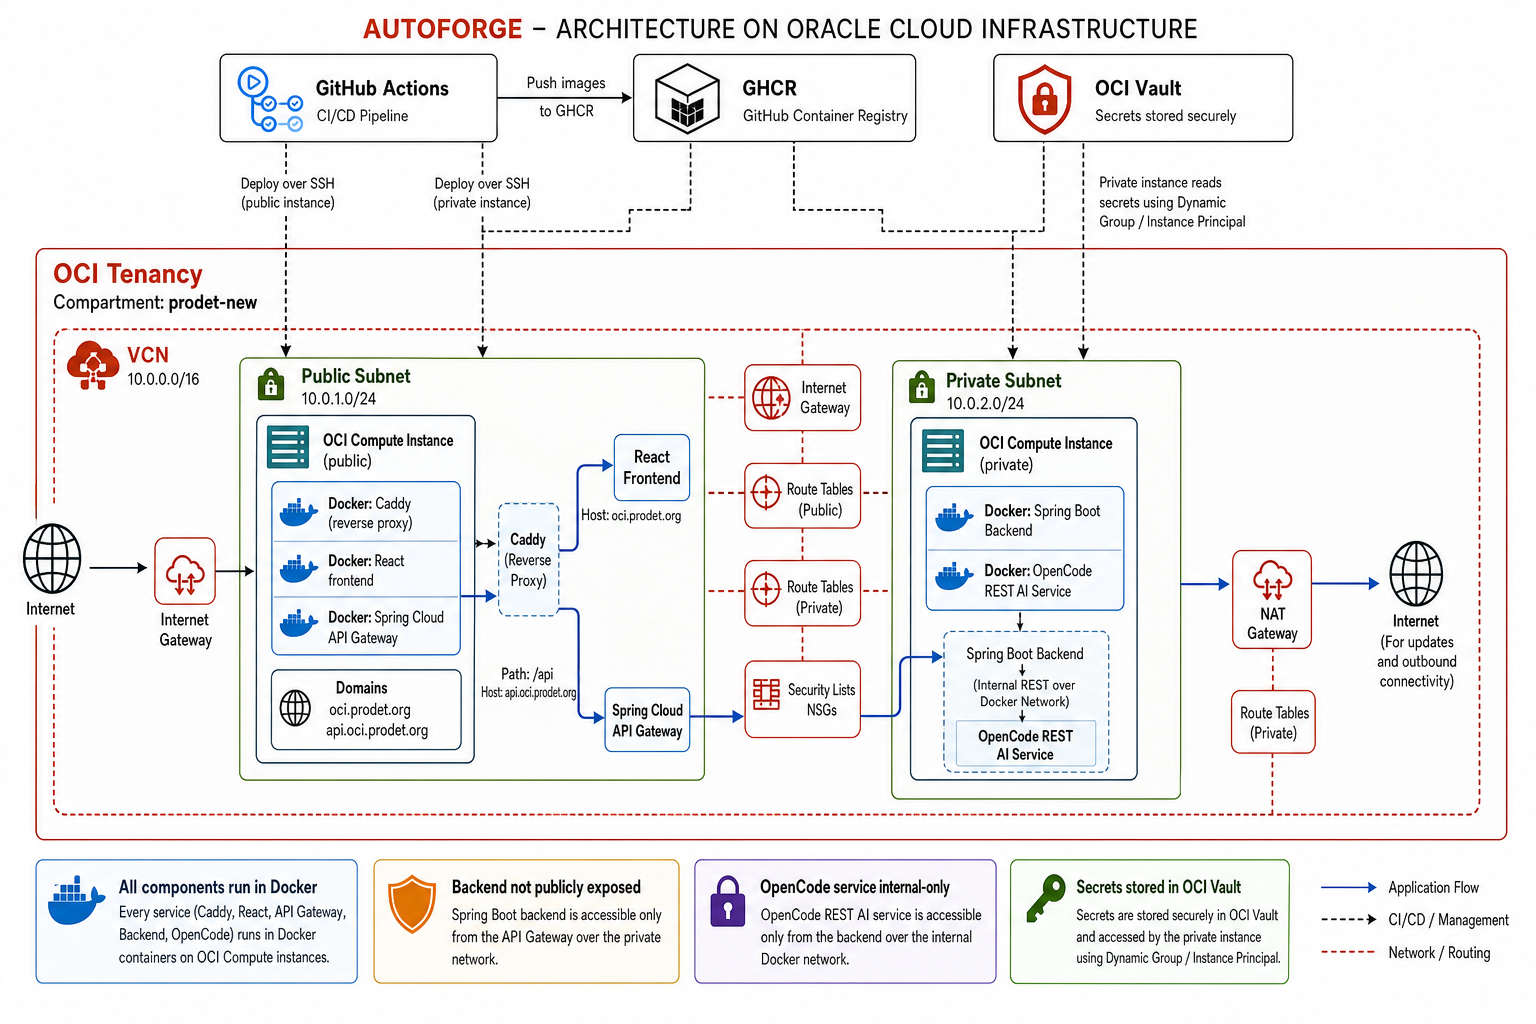
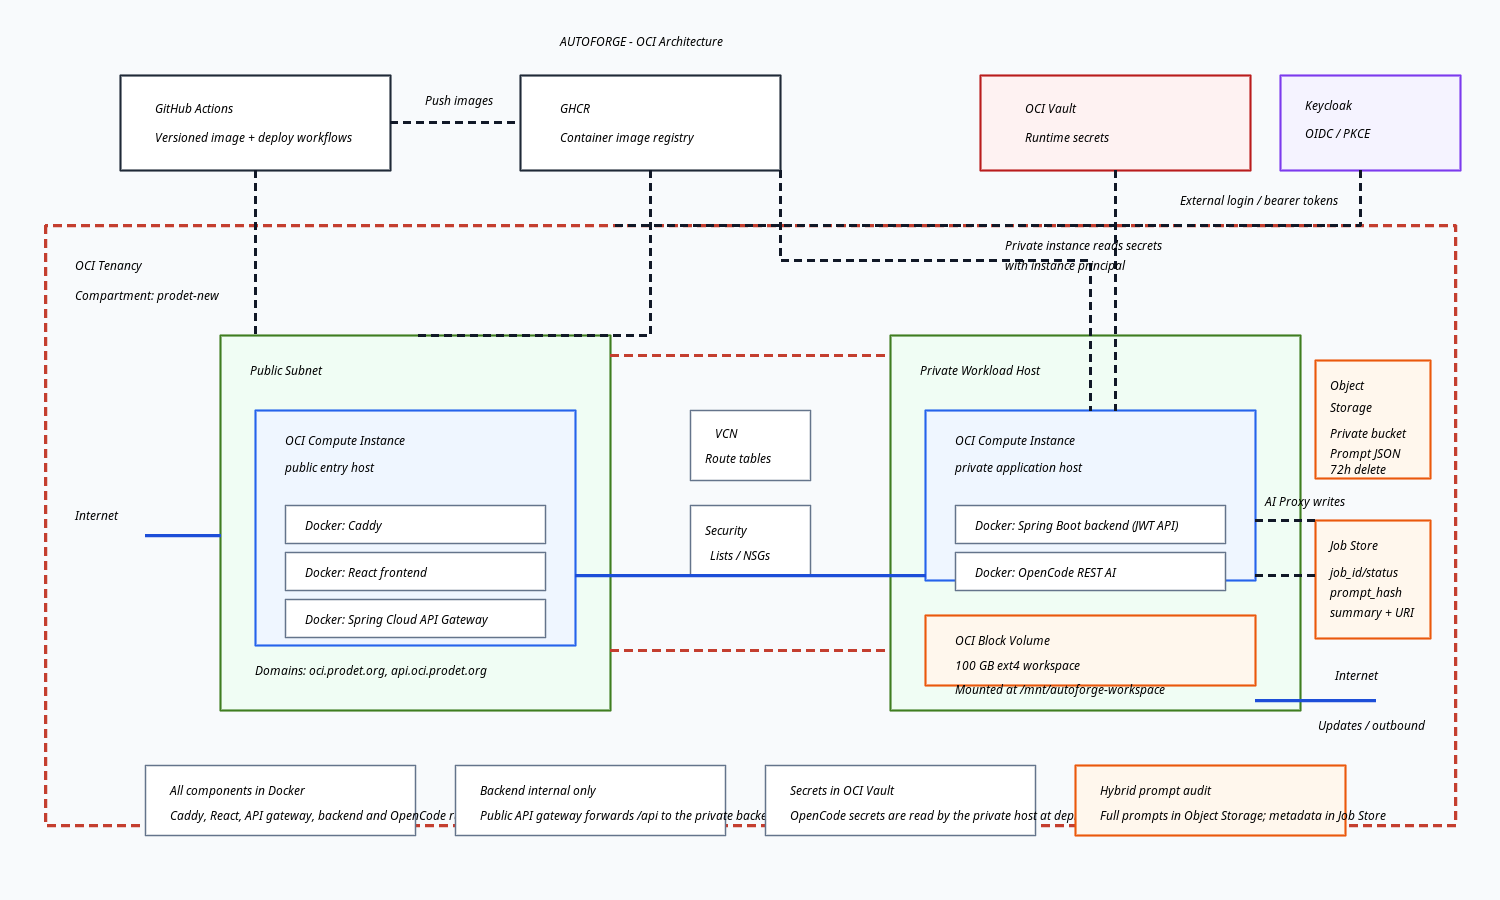
[AUTO-114] Document hybrid prompt audit architecture

Changed region(s): [[0.0307, 0.0, 0.9813, 0.9644], [0.0, 0.4978, 0.0613, 0.6222]]

diff --git a/docs/architecture.md b/docs/architecture.md
@@ -13,6 +13,9 @@
   - OpenCode REST AI service
   - worker service
   - attached OCI Block Volume for the shared Autoforge workspace
+- OCI storage services:
+  - private Object Storage bucket for full AI prompt JSON files
+  - relational Job Store for job metadata, prompt hash, summary, and object URI
 - External identity provider:
   - Keycloak OIDC login with PKCE
   - public client for the web app
@@ -34,6 +37,9 @@
 - The web frontend delegates authentication to an external Keycloak OIDC provider and uses bearer tokens for API calls.
 - The private host serves internal application workloads.
 - The private host has a dedicated 100 GB OCI Block Volume mounted as an ext4 workspace at `/mnt/autoforge-workspace`.
+- The AI Proxy stores full generated prompts in a private OCI Object Storage bucket as native JSON objects.
+- The Job Store keeps `job_id`, `jira_id`, `status`, `prompt_hash`, secret-filtered `summary`, and `object_store_uri` for audit and debug workflows.
+- Object Storage lifecycle management deletes full prompt JSON objects after 72 hours; the Job Store retains hash and summary for long-term audit history.
 
 ## Current status
 
@@ -45,6 +51,7 @@
 - The backend validates JWTs with a bundled Keycloak public key to avoid production-only remote JWKS/issuer fetch failures.
 - OCI Vault still stores OpenCode runtime secrets, which the private host reads at deploy time via instance principal.
 - The 100 GB OCI Block Volume remains mounted at `/mnt/autoforge-workspace`.
+- Prompt audit storage uses the hybrid Object Storage plus Job Store model decided in `AUTO-114`.
 - The worker runtime is still not selected and is not shown as an active service in the current deploy chain.
 
 ## Diagram Rule

diff --git a/AGENT.md b/AGENT.md
@@ -112,6 +112,14 @@ Record the commands and outcomes in the task file `Lepesnaplo` section. Do not r
 - Keep task docs consistent with the actual branch and PR.
 - Do not leave stale references to wrong IDs, wrong PRs, or closed/superseded branches.
 
+## Jira Decision And Spike Rules
+
+- Never transition a Spike, decision issue, or user-choice issue to `Done` based only on a default recommendation, agent preference, or inferred best practice.
+- A Spike can be moved to `Done` only when the user explicitly confirms the decision, the requested research output is completed and recorded, or the user directly asks to close it.
+- If a Spike contains a recommended default but no confirmed decision, leave it open and comment with `Recommended, not decided` instead of closing it.
+- When recording a decision in Jira, include the selected option, the reason, follow-up issue keys, and whether the decision came from explicit user confirmation.
+- If an issue was closed incorrectly, immediately reopen it, add a correction comment, and tell the user what was corrected.
+
 ## Review Mindset
 
 When asked for a review, prioritize findings first: bugs, regressions, risks, missing tests, and security concerns. If no findings exist, say that explicitly and mention residual risks.

diff --git a/docs/epics/EPIC-3-jira-migration.md b/docs/epics/EPIC-3-jira-migration.md
@@ -95,6 +95,13 @@ Javasolt Jira státuszok:
 - `Done`: merged, dokumentált, verifikált.
 - `Cancelled`: nem valósul meg vagy kiváltotta másik issue.
 
+Spike és döntési issue szabály:
+
+- Spike vagy döntési issue nem kerülhet `Done` státuszba pusztán default javaslat, agent preferencia vagy feltételezett best practice alapján.
+- Spike csak explicit user döntés, rögzített kutatási eredmény vagy közvetlen lezárási kérés után zárható.
+- Ha csak ajánlott default van, de nincs megerősített döntés, kommentben `Recommended, not decided` jelölést kell használni, és az issue maradjon nyitva.
+- Hibás lezárás esetén az issue-t vissza kell nyitni, korrekciós kommenttel és user felé történő egyértelmű jelzéssel.
+
 ## Markdown -> Jira státuszleképezés
 
 Import során a jelenlegi Markdown adatokból kell best-effort státuszt képezni.

diff --git a/docs/epics/EPIC-3-jira-migration-stories.md b/docs/epics/EPIC-3-jira-migration-stories.md
@@ -224,6 +224,7 @@ Acceptance criteria:
 - Branch, commit és PR név Jira issue key alapján készül.
 - PR body kötelezően linkeli a Jira issue-t.
 - Munka végén Jira komment és státuszfrissítés szabályai rögzítve.
+- Spike/döntési issue csak explicit user döntés vagy rögzített kutatási eredmény után zárható; default javaslat önmagában nem elég.
 - Legacy `AUTO-*` és `BUG-*` használat historical reference-ként marad.
 - Secret kezelés továbbra is tiltja tokenek fájlba írását.
 
